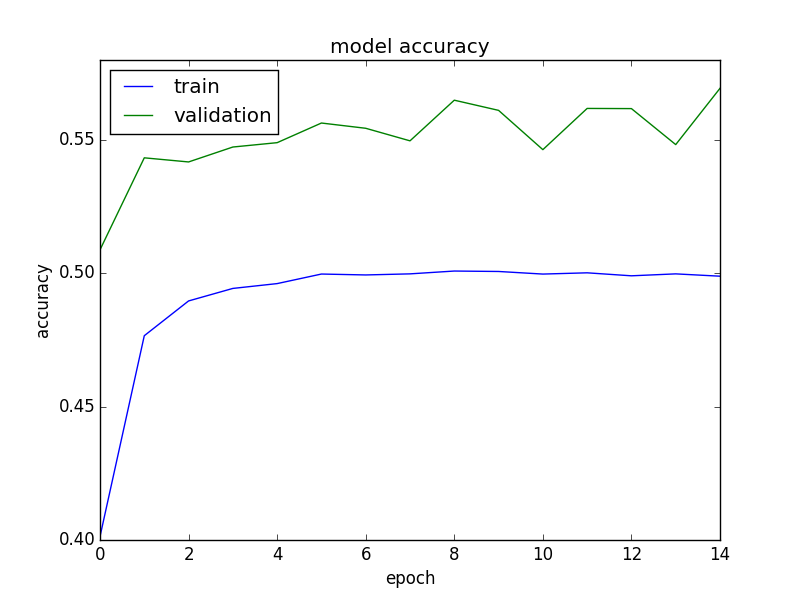
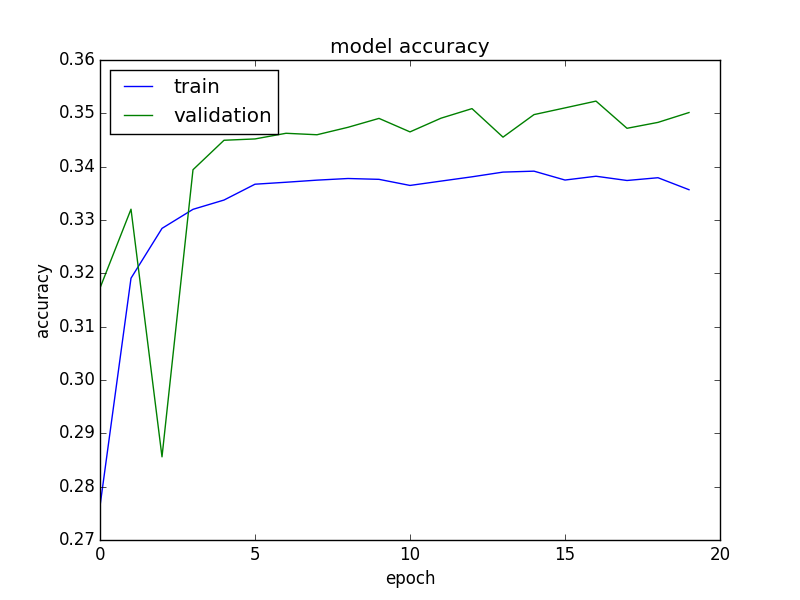
Experimento con normalización por samplewise

diff --git a/ex2_convnet_imgpre/convnet_imgpre.py b/ex2_convnet_imgpre/convnet_imgpre.py
@@ -17,7 +17,7 @@ import pprint
 
 batch_size = 32
 nb_classes = 91
-nb_epoch = 15
+nb_epoch = 20
 
 # input image dimensions
 img_rows, img_cols = 28, 28
@@ -41,9 +41,9 @@ tst_path = "../dataset/data_dest_dir/test/chars/"
 # En este generador metemos el aumentado.
 # TODO: Ojo que el generador de Train solo tiene que tener aumentado (Hay que hacer un generator para train, y un generator pelado para valid/test)
 img_generator = ImageDataGenerator(
-                    #rescale=1./255,
-                    #samplewise_center=True,
-                    #samplewise_std_normalization=True
+                    rescale=1./255,
+                    samplewise_center=True,
+                    samplewise_std_normalization=True
                     )
 
 # Viendo que hay dos formas que nadie se pone de acuerdo, tomo este orden que pusiste acá: validación para elegir hiperparámetros, test para el test final.
